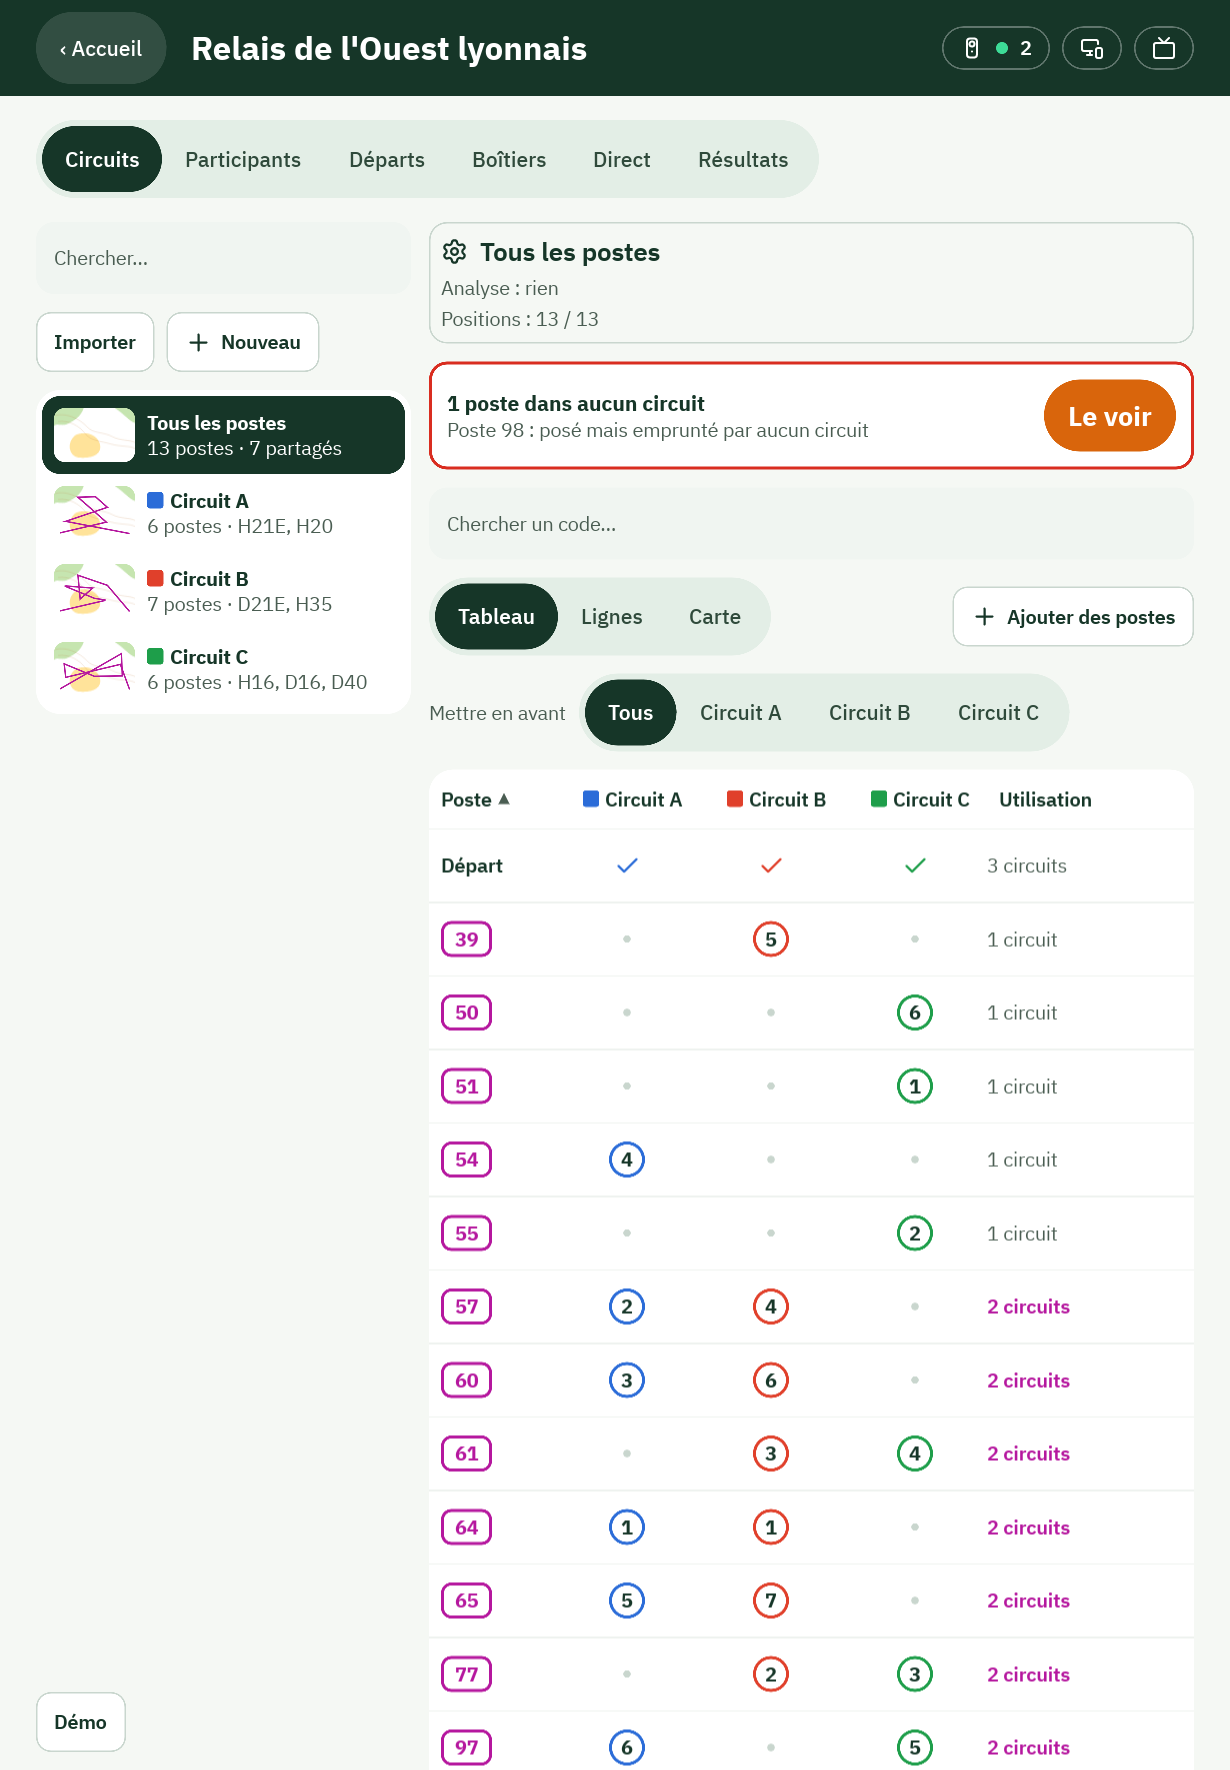
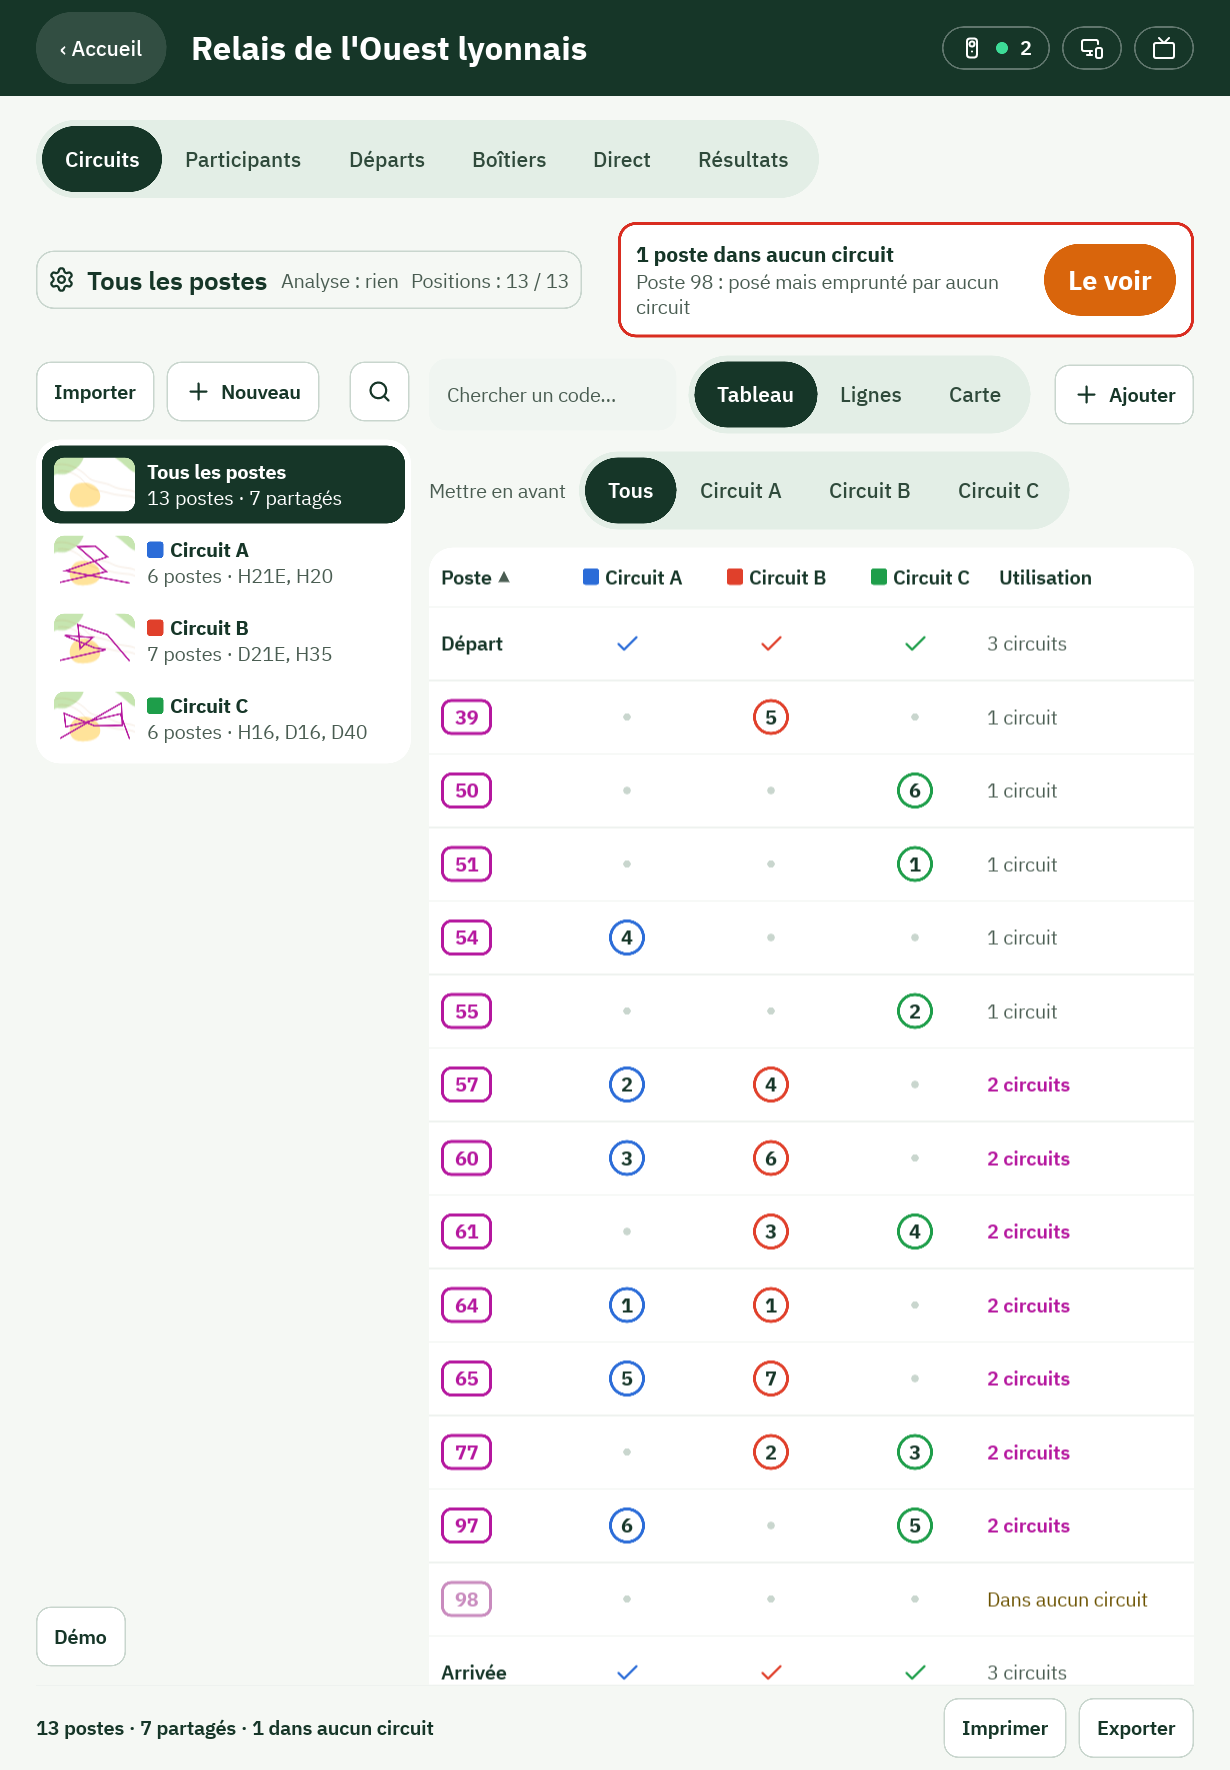
Rework the courses layout after review
Put the settings and the alert under the tabs, across both columns, and keep the
summary band at the bottom of the window. Remove sideways scrolling on phones and
fold the course search behind a magnifier. Turn off GPU capture in the Xcode scheme,
which crashes in its GPU gauge while debugging.

diff --git a/src/courses.rs b/src/courses.rs
@@ -83,7 +83,11 @@ fn trace(event: &Event, course: &Course) -> String {
 impl CoursesState {
     pub fn select_course(&mut self, index: i32) {
         self.selection = match index {
-            -2 => Selection::Nothing,
+            -2 => {
+                self.code_search.clear();
+                self.course_search.clear();
+                Selection::Nothing
+            }
             -1 => Selection::AllControls,
             i => Selection::Course(i as usize),
         };
@@ -162,6 +166,8 @@ impl CoursesState {
         courses.set_views(model(VIEWS.iter().map(|v| word(v)).collect()));
         courses.set_views_narrow(model(VIEWS[..2].iter().map(|v| word(v)).collect()));
         courses.set_active_view(self.view as i32);
+        courses.set_code_search_text(self.code_search.as_str().into());
+        courses.set_course_search_text(self.course_search.as_str().into());
 
         let mut highlights = vec![word("Tous")];
         highlights.extend(event.courses.iter().map(|c| word(&c.name)));

diff --git a/ECRANS.md b/ECRANS.md
@@ -52,7 +52,9 @@ Chaque écran : 3 dispositions (étroite, moyenne, large), tactile et souris, cl
 ### Écarts et points ouverts de l'écran 2
 - **Fiche sur téléphone** : par-dessus, comme `CLAUDE.md`. Le prototype l'ouvre dans la ligne.
 - **Fiche en large** : absente tant qu'aucun poste n'est choisi. Le prototype affiche une phrase d'aide, retirée comme les autres consignes.
-- **Icônes absentes de la charte, donc retirées** : loupe, importer, imprimer, exporter, et les petites flèches ▾.
+- **Icônes absentes de la charte, donc retirées** : importer, imprimer, exporter, et les petites flèches ▾.
+- **Loupe, ajoutée à la demande de Robin** : absente de la charte, dessin repris du prototype, sans mot à côté. Dans la colonne des circuits à toutes les tailles et dans le contenu sur téléphone ; elle déplie le champ. Sur iPad et ordinateur, le contenu garde un champ de largeur limitée.
+- **Lignes** : les postes passent à la ligne au lieu de défiler de côté, à toutes les tailles.
 - **Tri** : petit triangle dessiné, ▲ n'étant pas dans la police.
 - **Poste dans aucun circuit** : contour plus clair au lieu de pointillés, que Slint ne dessine pas.
 - **Fiche, avant et après** : « D » et « A » écrits pour Départ et Arrivée, au lieu de leurs symboles.
